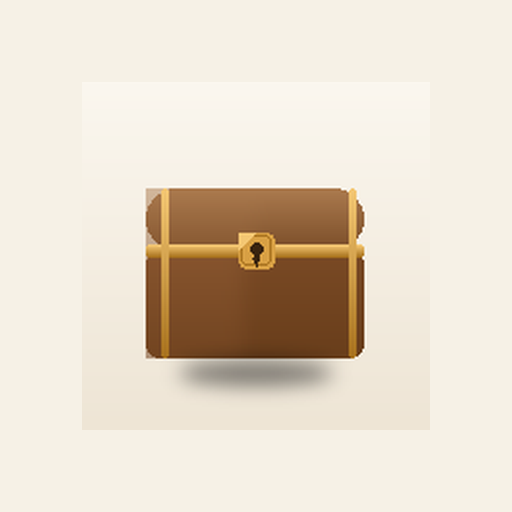
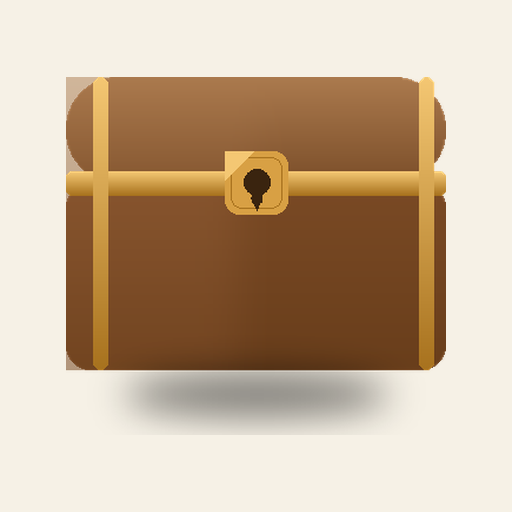
fix: 首页轻松上手分类导航点击板块即跳转对应页面，恢复产品原宝箱桌面图标，版本2026.09.09.03

diff --git a/index.html b/index.html
@@ -1,5 +1,5 @@
 <!DOCTYPE html>
-<html lang="zh-CN" data-app="centrove" data-author="尹平平" data-ver="2026.09.09.01"><head><meta http-equiv="Content-Type" content="text/html; charset=UTF-8">
+<html lang="zh-CN" data-app="centrove" data-author="尹平平" data-ver="2026.09.09.03"><head><meta http-equiv="Content-Type" content="text/html; charset=UTF-8">
 <!-- 栖匣 —— 原创作品，作者：尹平平。整体架构、界面、内容均受《中华人民共和国著作权法》保护；未获书面授权，禁止整站复制、二次开发后冒名发布或用于牟利。 -->
 <svg width="0" height="0" style="position:absolute" aria-hidden="true"><defs><linearGradient id="plBg" x1="0%" y1="0%" x2="100%" y2="100%"><stop offset="0%" stop-color="#4A3427"/><stop offset="100%" stop-color="#33291F"/></linearGradient><radialGradient id="plSun" cx="45%" cy="35%" r="80%"><stop offset="0%" stop-color="#FFF7E2"/><stop offset="60%" stop-color="#F6CF72"/><stop offset="100%" stop-color="#EFAD46"/></radialGradient></defs></svg>
 
@@ -13,7 +13,7 @@
   <meta name="apple-mobile-web-app-capable" content="yes">
   <meta name="apple-mobile-web-app-status-bar-style" content="black-translucent">
   <meta name="apple-mobile-web-app-title" content="栖匣">
-  <link rel="manifest" href="pwa/manifest.json?v=20260909">
+  <link rel="manifest" href="pwa/manifest.json?v=2026090903">
   <link rel="icon" href="favicon.ico" sizes="any">
   <link rel="icon" type="image/png" sizes="96x96" href="favicon-96.png">
   <link rel="icon" type="image/png" sizes="32x32" href="favicon-32.png">
@@ -9855,7 +9855,7 @@ function renderFocus(){
     for(var j=0;j<sec.items.length;j++){
       var it=sec.items[j];
       var _ic=navIconFor(it[0]);
-      html+='<div class="focus-board" data-go="'+it[0]+'" tabindex="0" role="button" title="前往『"+it[2]+"』"><span class="fb-ico'+( _ic?' fb-svg':'')+'">'+(_ic||it[1])+'</span><span class="fb-na">'+it[2]+'</span></div>';
+      html+='<div class="focus-board" data-go="'+it[0]+'" tabindex="0" role="button" onclick="switchView(\''+it[0]+'\')" title="前往『"+it[2]+"』"><span class="fb-ico'+( _ic?' fb-svg':'')+'">'+(_ic||it[1])+'</span><span class="fb-na">'+it[2]+'</span></div>';
     }
     html+='</div></div></div>';
   }
@@ -9883,6 +9883,9 @@ function toggleFocusGroup(btn){
   function focusGo(e){
     var t=(e.target&&e.target.closest)?e.target.closest('.focus-board[data-go]'):null;
     if(!t)return;
+    /* 板块已自带内联 onclick 直达 switchView（与侧边栏一致，最稳）；这里只当没有内联处理时才兜底，
+       避免同一点击触发两次跳转造成扰动。 */
+    if(t.onclick)return;
     var v=t.getAttribute('data-go');if(!v)return;
     if(e.type==='keydown'){if(e.key!=='Enter'&&e.key!==' '){return;}e.preventDefault();}
     else{e.preventDefault();}
@@ -13963,12 +13966,20 @@ if(document.readyState==='loading'){document.addEventListener('DOMContentLoaded'
 /* ═══════ 栖匣 · 版本自检 / 更新日志 / 更新提示(非强制) / 无痕与容量告警 ═══════
    纯前端、增量模块：只读公开的版本标记文本与本地数据完整性，绝不读取、上传任何个人数据。 */
 (function(){
-  var V='2026.09.09.01';
+  var V='2026.09.09.03';
   var VFILE='pwa/version.txt';
   function $(id){return document.getElementById(id);}
   function esc(s){return String(s==null?'':s).replace(/[&<>"]/g,function(c){return{'&':'&amp;','<':'&lt;','>':'&gt;','"':'&quot;'}[c];});}
 
   var CHANGES=[
+    {v:'2026.09.09.03',t:'修复“轻松上手·分类导航”点击板块不能跳转',tag:'导航修复',blocks:[
+      '· 首页「轻松上手·分类导航」里的板块，现在点击即直达对应板块页面（不再出现“点了没反应”）。',
+      '· 采用与侧边栏一致的最稳跳转方式 + 移动端委托兜底，安卓/鸿蒙/网页均稳定生效。'
+    ]},
+    {v:'2026.09.09.02',t:'桌面图标换回产品原有宝箱 · 大小适中更美观',tag:'图标还原',blocks:[
+      '· 桌面图标已改回产品页面里那个原有的宝箱图标（不再另画），采用奶油底 + 居中黄金比例比例，大小调整到舒适美观，明亮清晰不突兀。',
+      '· 网页版 Manifest、离线缓存、版本号已同步刷新；若桌面上仍显示旧图标，长按删除快捷方式后用浏览器重新「添加到主屏幕」一次即可。'
+    ]},
     {v:'2026.09.09.01',t:'桌面图标换代：彻底摆脱“栖”字字母占位',tag:'图标修复',blocks:[
       '· 网页版桌面图标换成带版本号的全新文件：整块奶油底色 + 居中宝箱，任何安卓启动器 / 浏览器都把它画成完整彩色方块，不再退化成单个「栖」字。',
       '· 换名后图标缓存 hash 变化，若你的手机上桌面上仍显示旧「栖」字图标，请：长按该图标 → 删除快捷方式；然后用浏览器重新「添加到主屏幕 / 安装」一次，即显示宝箱图标。',

diff --git a/sw.js b/sw.js
@@ -6,7 +6,7 @@
    - HTML 导航采用网络优先（保证每次拿到最新页面），静态资源采用 stale-while-revalidate
      （离线秒开、在线自动后台刷新）。
    安全说明：本 SW 只缓存本站静态资源，绝不读写、上传任何 localStorage 用户数据。 */
-var VERSION = '2026.09.09.01';
+var VERSION = '2026.09.09.03';
 var PRE = 'centrove-pre-' + VERSION;
 var RUN = 'centrove-run-' + VERSION;
 

diff --git a/js/upgrade.js b/js/upgrade.js
@@ -8,7 +8,7 @@
 
   var NS = window.QixiaUpgrade = {};
   var STORE_KEY = 'pp_cu_config_v1';
-  var DATA_VERSION = '2026.09.09.01';
+  var DATA_VERSION = '2026.09.09.03';
 
   /* ============================================================
      1. 通用工具
